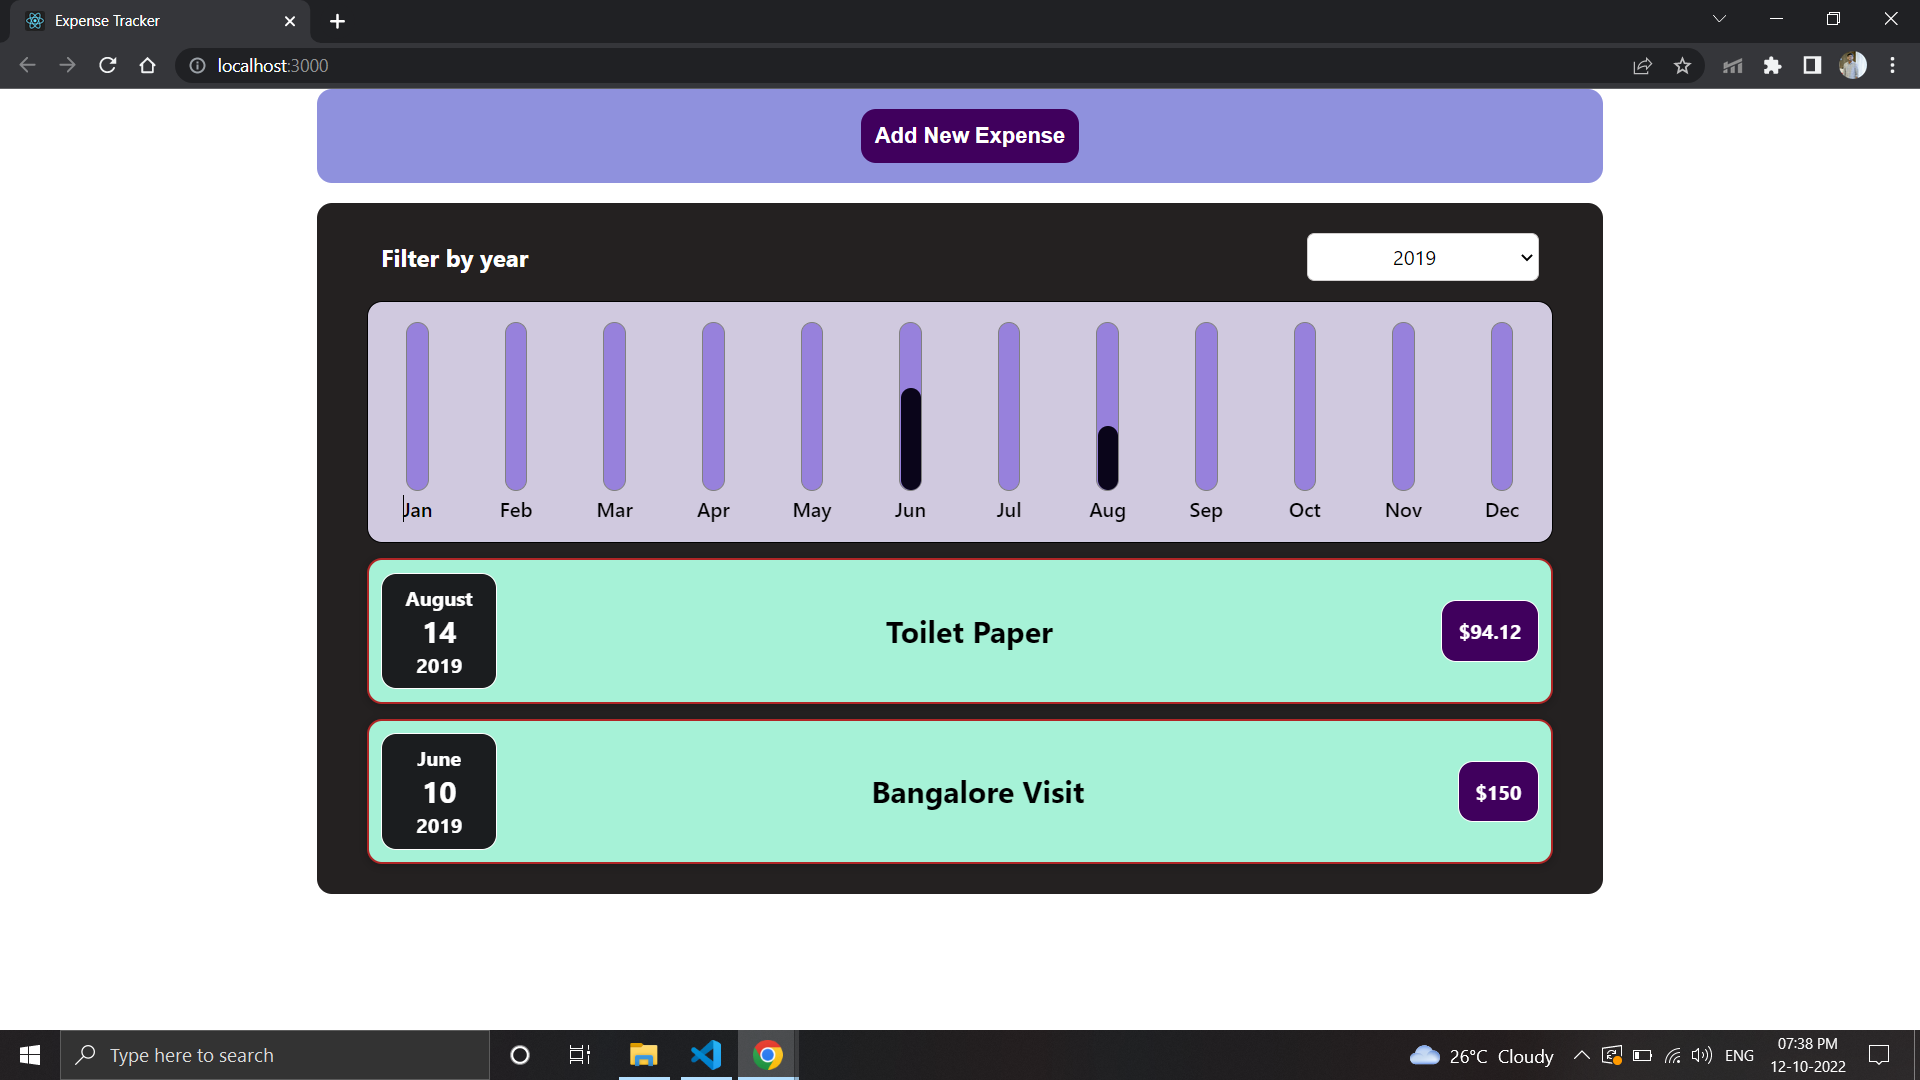
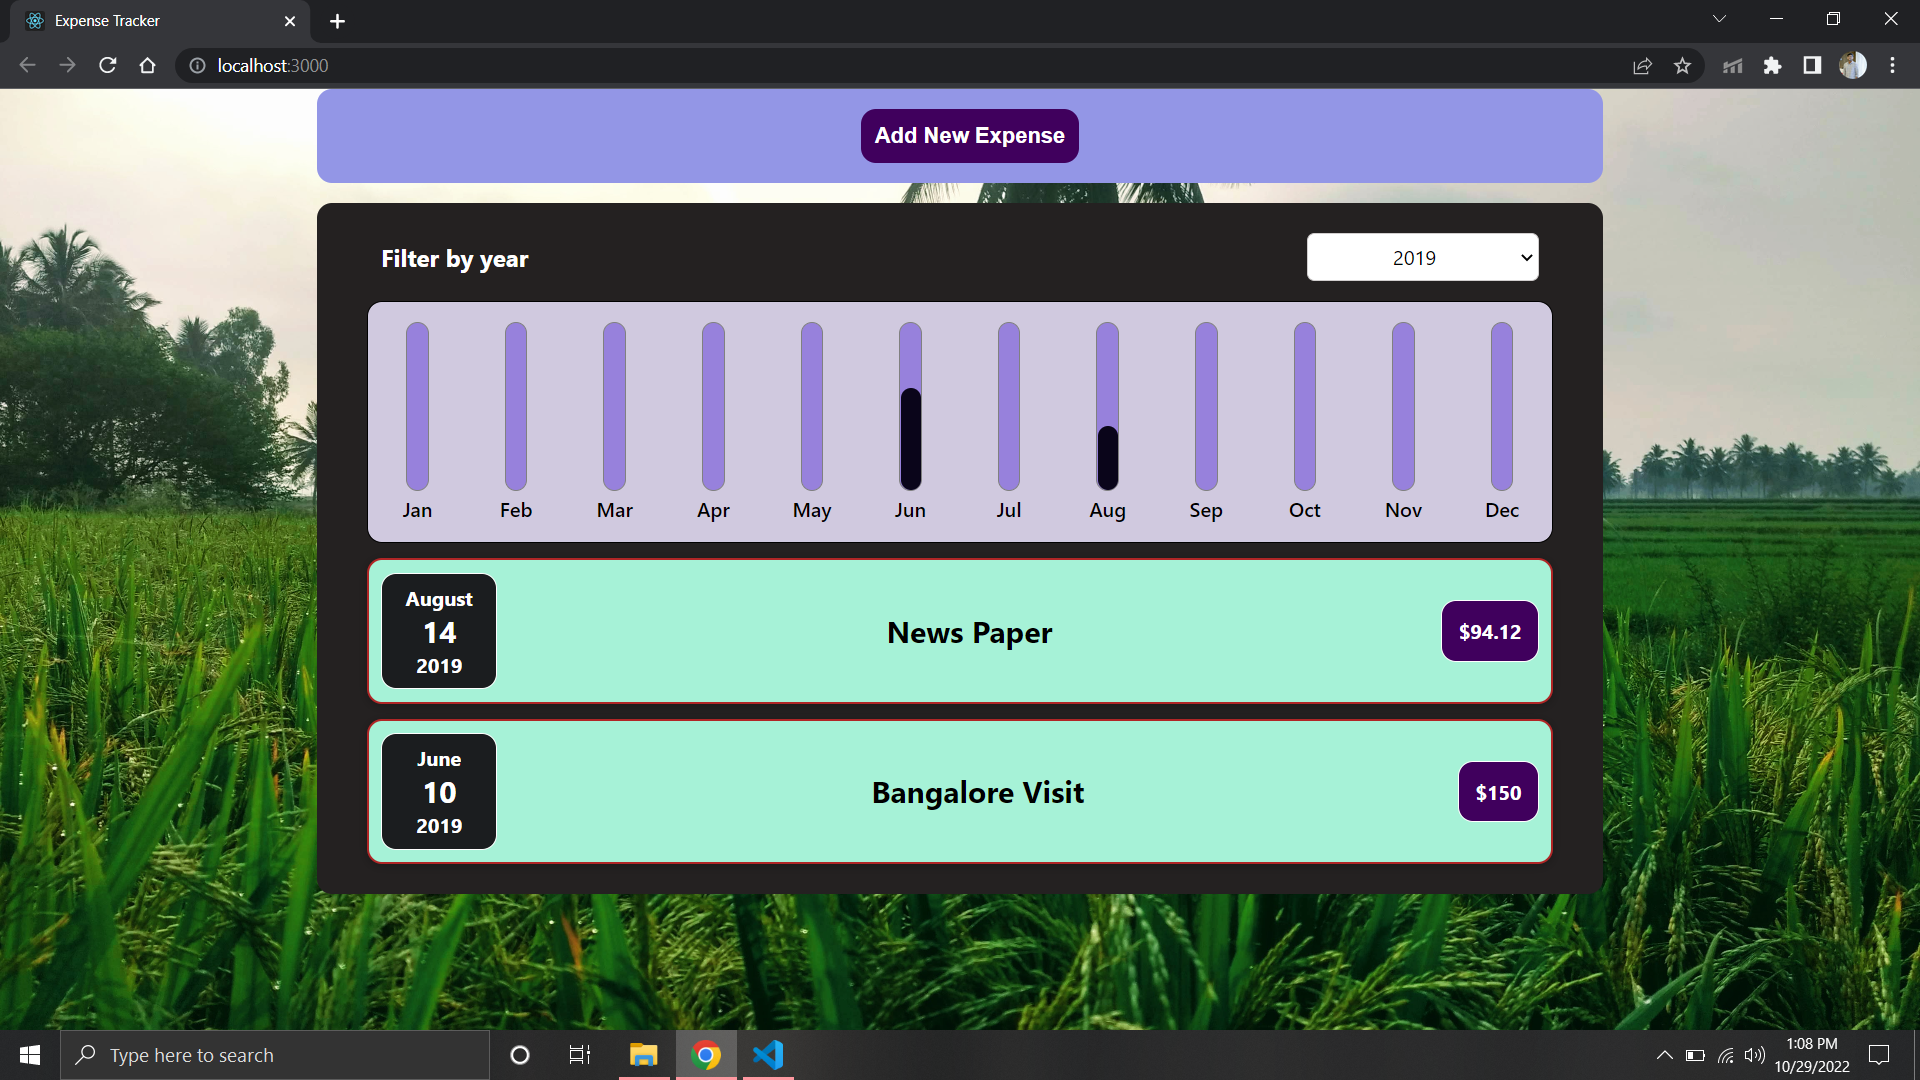
Added Error Modal and updated ReadME.md

diff --git a/src/components/newExpenses/ExpenseForm.js b/src/components/newExpenses/ExpenseForm.js
@@ -1,48 +1,69 @@
 import React, { useState } from "react";
+import ErrorModal from "../common/ErrorModal";
 
 const ExpenseForm = (props) => {
   const [enteredTitle, setTitle] = useState("");
   const [enteredAmount, setAmount] = useState("");
   const [enteredDate, setDate] = useState("");
-  const [isTitle, titleState] = useState(true);
-  const [isAmount, amountState] = useState(true);
-  const [isdate, dateState] = useState(true);
+  const [errorObject, seterrorObject] = useState();
 
   const titleHandler = (event) => {
     setTitle(event.target.value);
-    titleState(true);
   };
 
   const amountHandler = (event) => {
     setAmount(event.target.value);
-    amountState(true);
   };
 
   const dateHandler = (event) => {
     setDate(event.target.value);
-    dateState(true);
   };
+
+  const closeModal = () => {
+    seterrorObject(null);
+  }
 
   const formData = (event) => {
     event.preventDefault();
-    let formValid = 0;
+    let errorObj = "";
+    if (
+      enteredTitle.trim().length === 0 &&
+      enteredAmount.trim().length === 0 &&
+      enteredDate.trim().length === 0
+    ) {
+      errorObj = {
+        title: "Empty data for mandatory fields",
+        message: "Please input values for Title , Amount and Date",
+      };
+      seterrorObject(errorObj);
+      return;
+    }
+
     if (enteredTitle.trim().length === 0) {
-      titleState(false);
-      formValid += 1;
+      errorObj = {
+        title: "Empty data for mandatory field - Title",
+        message: "Please input values for Title",
+      };
+      seterrorObject(errorObj);
+      return;
     }
 
     if (enteredAmount.trim().length === 0) {
-      amountState(false);
-      formValid += 1;
+      errorObj = {
+        title: "Empty data for mandatory field - Amount",
+        message: "Please input values for Amount",
+      };
+      seterrorObject(errorObj);
+      return;
     }
 
     if (enteredDate.trim().length === 0) {
-      dateState(false);
-      formValid += 1;
-    }
-
-    if(formValid !== 0){
-      return ;
+      errorObj = {
+        title: "Empty data for mandatory field - Date",
+        message: "Please input values for Date",
+      };
+      seterrorObject(errorObj);
+      return;
     }
 
     const finalUserDate = {
@@ -60,12 +81,12 @@ const ExpenseForm = (props) => {
 
   return (
     <div>
+      {errorObject && <ErrorModal err={errorObject} onModalClick={closeModal}/>}
       <form action="" onSubmit={formData}>
         <div className="form-elements">
           <div className="input-element">
             <label htmlFor="title">Title</label>
             <input
-              className={isTitle ? "" : "empty"}
               type="text"
               placeholder="Enter title"
               onChange={titleHandler}
@@ -75,7 +96,6 @@ const ExpenseForm = (props) => {
           <div className="input-element">
             <label htmlFor="amount">Amount</label>
             <input
-              className={isAmount ? "" : "empty"}
               type="number"
               placeholder="Enter amount"
               onChange={amountHandler}
@@ -85,13 +105,12 @@ const ExpenseForm = (props) => {
           <div className="input-element">
             <label htmlFor="date">Date</label>
             <input
-              className={isdate ? "" : "empty"}
               type="date"
               max="2022-12-31"
               onChange={dateHandler}
               value={enteredDate}
             />
-          </div>  
+          </div>
         </div>
         <div className="submit-btn">
           <button

diff --git a/src/components/common/ErrorModal.module.css b/src/components/common/ErrorModal.module.css
@@ -1,0 +1,60 @@
+.error-modal-container{
+    position: fixed;
+    z-index: 10;
+    top: 0;
+    left: 0;
+    width: 100%;
+    height: 100%;
+    background-color: rgba(0, 0, 0, 0.5);
+}
+
+.error-modal{
+    width: 40%;
+    background-color: white;
+    margin: auto;
+    margin-top:10%;
+    z-index:9;
+    border-radius: 12px;
+    overflow: hidden;
+}
+
+.header{
+    height: 25%;
+    background-color: #008080;
+    padding: 10px;
+}
+.header h2 {
+    color: white;
+    font-family: inherit;
+    font-size: larger;
+    margin-left:1.4rem;
+}
+.errmsg{
+    background-color:white;
+    height: 50%;
+    padding: 32px;
+}
+
+.footer{
+    height: 25%;
+    padding: 1rem;
+    text-align: right;
+}
+
+.btn {
+    font-size: 1rem;
+    font-weight: bold;
+    background-color: #40005d;
+    padding: 0.7rem;
+    color: white;
+    border-radius: 3px;
+    width: 6rem;
+    margin-right: 3rem;
+    transition: 0.3s;
+    border: none;
+  }
+
+.btn:hover{
+    opacity: 0.8;
+    cursor: pointer;
+}

diff --git a/src/components/common/ErrorModal.js b/src/components/common/ErrorModal.js
@@ -1,0 +1,22 @@
+import React from "react";
+import styles from "./ErrorModal.module.css";
+
+const ErrorModal = (props) => {
+  return (
+    <div className={styles["error-modal-container"]} onClick={props.onModalClick}>
+      <div className={styles["error-modal"]}>
+        <div className={styles.header}>
+          <h2>{props.err.title}</h2>
+        </div>
+        <div className={styles.errmsg}>
+          <p>{props.err.message}</p>
+        </div>
+        <div className={styles.footer}>
+          <button className={styles.btn} onClick={props.onModalClick}>Okay</button>
+        </div>
+      </div>
+    </div>
+  );
+};
+
+export default ErrorModal;

diff --git a/src/App.css b/src/App.css
@@ -1,12 +1,19 @@
-*{
-    margin: 0;
-    padding: 0;
+* {
+  margin: 0;
+  padding: 0;
 }
-.App{
-    width:67%;
-    display: flex;
-    flex-direction: column;
-    justify-content: center;
-    align-items: center;
-    margin: auto;
+.App {
+  width: 67%;
+  display: flex;
+  flex-direction: column;
+  justify-content: center;
+  align-items: center;
+  margin: auto;
+}
+
+body {
+  background-image: url("../images/bg1.jpg");
+  background-size: cover;
+  background-position: center;
+  background-repeat: no-repeat;
 }

diff --git a/src/components/newExpenses/NewExpenses.css b/src/components/newExpenses/NewExpenses.css
@@ -1,5 +1,5 @@
 .expense-form {
-  background-color: rgba(113, 116, 212, 0.788);
+  background-color: rgb(147, 150, 230);
   width:100%;
   margin: auto;
   margin-bottom: 1rem;
@@ -23,11 +23,6 @@ label {
 .input-element {
   display: flex;
   flex-direction: column;
-}
-
-.empty{
-  border: 2px solid red;
-  box-shadow: 0 0 5px rgb(103, 102, 102);
 }
 
 input {

diff --git a/src/App.js b/src/App.js
@@ -6,7 +6,7 @@ import "./App.css";
 const expensesDetails = [
   {
     id: "e1",
-    title: "Toilet Paper",
+    title: "News Paper",
     amount: "94.12",
     date: new Date(2019, 7, 14),
   },

diff --git a/README.md b/README.md
@@ -1,16 +1,35 @@
-# Expense Tracker App Built with React
+# Expense Tracker App 
+
+## Built with
+
+- HTML
+- CSS
+- JavaScript
+- React
 
 ## Features
 
 - Render expense items defined in source code
 - Take User input expense items
+- Perform validation on user input data and show error message via CSS Modal
 - Filter expense items based on year
 - Dynamically show expense via bar chart
 
+## Installation
+
+```bash
+  git clone https://github.com/sriharin207/Expense-Tracker.git
+```
+```bash
+  npm install
+```
+```bash
+  npm start / npm run build
+```
 
 ## Deployment
 
-CI/CD pipelines has been configured via GitHub actions will be deploye code to Azure App Service . Navigate to below link to view app
+CI/CD pipelines has been configured via GitHub actions which will be deploye react app to Azure App Service . Navigate to below link to view live app
 
 ```bash
   https://reactexpensetracker.azurewebsites.net/
